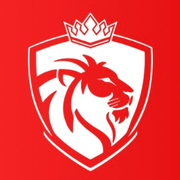
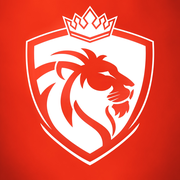
Update KINGS Esports website

diff --git a/src/components/home/Hero.tsx b/src/components/home/Hero.tsx
@@ -8,23 +8,19 @@ export default function Hero() {
   const { t } = useI18n();
 
   return (
-    <section className="grain relative isolate overflow-hidden bg-brand text-white">
-      {/* Atmosphere: warm centre-right glow, darkening towards the edges */}
-      <div
+    <section className="grain relative isolate overflow-hidden bg-brand-deep text-white">
+      {/* Official banner artwork (text removed), brightened towards the brand red */}
+      <img
+        src={siteConfig.heroBackground}
+        alt=""
         aria-hidden
-        className="absolute inset-0 -z-20 bg-[radial-gradient(ellipse_60%_70%_at_72%_42%,var(--color-brand-light),transparent_70%),linear-gradient(135deg,#e0402f_0%,var(--color-brand)_38%,var(--color-brand-dark)_72%,var(--color-brand-deep)_100%)]"
+        fetchPriority="high"
+        className="absolute inset-0 -z-30 h-full w-full object-cover object-[62%_center] [filter:saturate(1.2)_brightness(1.35)]"
       />
-      <div
-        aria-hidden
-        className="absolute inset-0 -z-10 bg-[radial-gradient(ellipse_90%_90%_at_50%_45%,transparent_55%,rgba(0,0,0,0.38)_100%)]"
-      />
-      {/* Oversized outlined wordmark */}
-      <div
-        aria-hidden
-        className="pointer-events-none absolute -bottom-[0.14em] start-[-1.5%] -z-10 select-none whitespace-nowrap font-display text-[31vw] font-extrabold uppercase leading-none text-transparent [-webkit-text-stroke:2px_rgba(255,255,255,0.1)]"
-      >
-        {siteConfig.shortName}
-      </div>
+      {/* Brand-red wash keeps the 60% red balance */}
+      <div aria-hidden className="absolute inset-0 -z-20 bg-[linear-gradient(100deg,rgba(228,30,32,0.9)_0%,rgba(221,28,30,0.6)_45%,rgba(221,28,30,0.15)_100%)] mix-blend-screen" />
+      {/* Legibility: darker behind the text, vignette at the edges */}
+      <div aria-hidden className="absolute inset-0 -z-10 bg-[linear-gradient(90deg,rgba(40,0,3,0.12)_0%,rgba(40,0,3,0.05)_55%,transparent_100%),radial-gradient(ellipse_100%_100%_at_50%_45%,transparent_60%,rgba(0,0,0,0.4)_100%)] rtl:bg-[linear-gradient(270deg,rgba(40,0,3,0.12)_0%,rgba(40,0,3,0.05)_55%,transparent_100%),radial-gradient(ellipse_100%_100%_at_50%_45%,transparent_60%,rgba(0,0,0,0.4)_100%)]" />
       {/* Slanted brand bars: black + white */}
       <div aria-hidden className="absolute inset-y-0 end-0 -z-10 hidden w-40 overflow-hidden lg:block">
         <div className="absolute -inset-y-10 end-12 w-10 -skew-x-[18deg] bg-ink rtl:skew-x-[18deg]" />
@@ -35,10 +31,10 @@ export default function Hero() {
         {/* Logo: first on mobile, right-hand column on desktop */}
         <div className="hero-in order-first flex justify-center lg:order-last" style={{ ['--d' as string]: '150ms' }}>
           <Logo
-            size={440}
-            blend
+            size={460}
+            mark
             priority
-            className="h-auto w-[min(52vw,220px)] drop-shadow-[0_30px_60px_rgba(0,0,0,0.35)] sm:w-[min(52vw,300px)] lg:w-[min(36vw,460px)]"
+            className="h-auto w-[min(52vw,220px)] drop-shadow-[0_24px_50px_rgba(0,0,0,0.55)] sm:w-[min(52vw,300px)] lg:w-[min(34vw,440px)]"
           />
         </div>
 

diff --git a/src/components/ui/Logo.tsx b/src/components/ui/Logo.tsx
@@ -4,31 +4,27 @@ interface LogoProps {
   /** Rendered width/height in CSS pixels */
   size?: number;
   className?: string;
-  /** Feather the logo's edges so it melts into a red background (used in the hero). */
-  blend?: boolean;
+  /** Use the transparent white emblem (no red square). Best on red, dark or photographic backgrounds. */
+  mark?: boolean;
   priority?: boolean;
+  /** Decorative copies are hidden from screen readers */
+  decorative?: boolean;
 }
 
-/** The official Kings crowned-lion shield. Always uses the supplied logo file, never a redraw. */
-export default function Logo({ size = 48, className = '', blend = false, priority = false }: LogoProps) {
+/** The official Kings crowned-lion shield. Always uses the supplied logo files, never a redraw. */
+export default function Logo({ size = 48, className = '', mark = false, priority = false, decorative = false }: LogoProps) {
+  const { src, src2x, mark: markSrc } = siteConfig.logo;
   return (
     <img
-      src={siteConfig.logo.src}
-      srcSet={`${siteConfig.logo.src} 1x, ${siteConfig.logo.src2x} 2x`}
+      src={mark ? markSrc : src}
+      srcSet={mark ? undefined : `${src} 1x, ${src2x} 2x`}
       width={size}
       height={size}
-      alt="Kings Esports logo"
+      alt={decorative ? '' : 'Kings Esports logo'}
+      aria-hidden={decorative || undefined}
       decoding="async"
       loading={priority ? 'eager' : 'lazy'}
       className={className}
-      style={
-        blend
-          ? {
-              WebkitMaskImage: 'radial-gradient(closest-side, #000 72%, transparent 100%)',
-              maskImage: 'radial-gradient(closest-side, #000 72%, transparent 100%)',
-            }
-          : undefined
-      }
     />
   );
 }

diff --git a/src/components/ui/BrandTile.tsx b/src/components/ui/BrandTile.tsx
@@ -25,14 +25,10 @@ export default function BrandTile({ label, className = '', tone = 'red' }: Brand
         aria-hidden
       />
       <img
-        src={siteConfig.logo.src}
+        src={siteConfig.logo.mark}
         alt=""
         aria-hidden
-        className="absolute end-[-8%] top-1/2 h-[120%] -translate-y-1/2 opacity-30 mix-blend-soft-light"
-        style={{
-          WebkitMaskImage: 'radial-gradient(closest-side, #000 60%, transparent 100%)',
-          maskImage: 'radial-gradient(closest-side, #000 60%, transparent 100%)',
-        }}
+        className="absolute end-[-6%] top-1/2 h-[112%] -translate-y-1/2 opacity-[0.16]"
       />
       {label && (
         <span className="absolute bottom-3 start-4 font-display text-sm font-bold uppercase tracking-[0.25em] text-white/90">

diff --git a/src/config/site.ts b/src/config/site.ts
@@ -38,9 +38,14 @@ export const siteConfig = {
 
   /** Public paths of brand assets (files live in /public/images). */
   logo: {
-    src: './images/kings-logo.png',
-    src2x: './images/kings-logo@2x.png',
+    /** Official logo on its red background (navbar, footer, About) */
+    src: './images/kings-logo.jpg',
+    src2x: './images/kings-logo@2x.jpg',
+    /** Same logo as a transparent white emblem, for use on any coloured background (hero, cards) */
+    mark: './images/kings-mark.png',
   },
+  /** Cinematic hero background (cleaned version of the official banner, no text) */
+  heroBackground: './images/hero-bg.jpg',
 } as const;
 
 export type SocialKey = keyof typeof siteConfig.socials;

diff --git a/index.html b/index.html
@@ -14,8 +14,9 @@
     <meta property="og:type" content="website" />
     <meta property="og:title" content="Kings Esports" />
     <meta property="og:description" content="Built to compete. Born to conquer." />
-    <meta property="og:image" content="./icon-512.png" />
-    <meta name="twitter:card" content="summary" />
+    <meta property="og:image" content="https://ajimi527.github.io/kings-esports/og-banner.jpg" />
+    <meta name="twitter:card" content="summary_large_image" />
+    <meta name="twitter:image" content="https://ajimi527.github.io/kings-esports/og-banner.jpg" />
   </head>
   <body>
     <div id="root"></div>

diff --git a/src/components/home/JoinSection.tsx b/src/components/home/JoinSection.tsx
@@ -37,8 +37,9 @@ export default function JoinSection() {
           <div className="cut relative overflow-hidden bg-ink p-8 text-white md:p-12">
             <Logo
               size={320}
-              blend
-              className="pointer-events-none absolute -end-16 -top-16 h-72 w-72 opacity-[0.14] mix-blend-screen"
+              mark
+              decorative
+              className="pointer-events-none absolute -end-12 -top-12 h-72 w-72 opacity-[0.12]"
             />
             <ul className="relative space-y-6">
               {j.points.map((point) => (

diff --git a/README.md b/README.md
@@ -146,5 +146,6 @@ After editing content: save the file → `npm run build` (or just push if you us
 ## 11. Notes
 
 - Kings Esports is **not** affiliated with or endorsed by Supercell. The footer states this.
-- The supplied logo has a Display P3 colour profile; the site uses an sRGB copy (`public/images/kings-logo.png`) so the red looks identical in every browser. Your untouched original is in `assets-source/`. For maximum sharpness, supply an SVG or a PNG of 1000 px or more when you have one and replace the file in `public/images/`.
+- **Brand images** live in `public/images/`: `kings-logo.jpg` (+ `@2x`) is the official logo on its red background, `kings-mark.png` is the same emblem as a transparent white version, and `hero-bg.jpg` is your banner artwork with the baked-in text removed. Your untouched originals are in `assets-source/`. To change an image, replace the file with one of the same name (or edit the paths in `src/config/site.ts`).
+- `public/og-banner.jpg` is the preview image shown when the site link is shared (Discord, X, WhatsApp). Its address is set in `index.html` and points to `https://ajimi527.github.io/kings-esports/`. If you later move to a custom domain, update that address.
 - Expanding to other games later: add a `game` value to tournaments and players (the data types already store the game per tournament).
